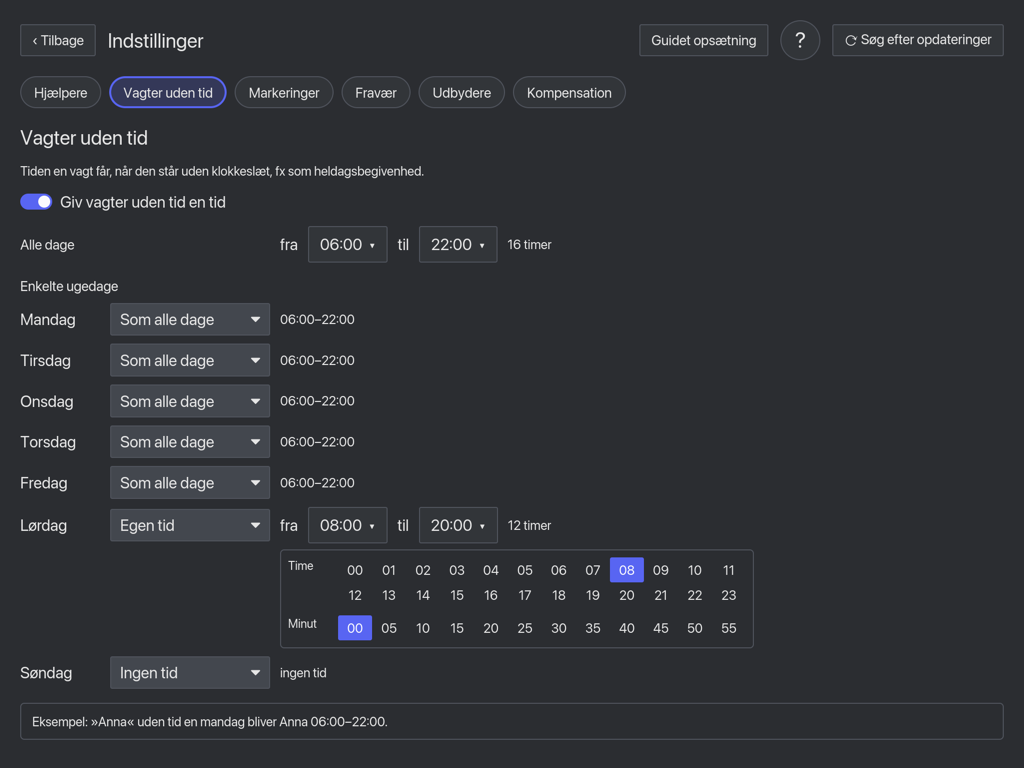
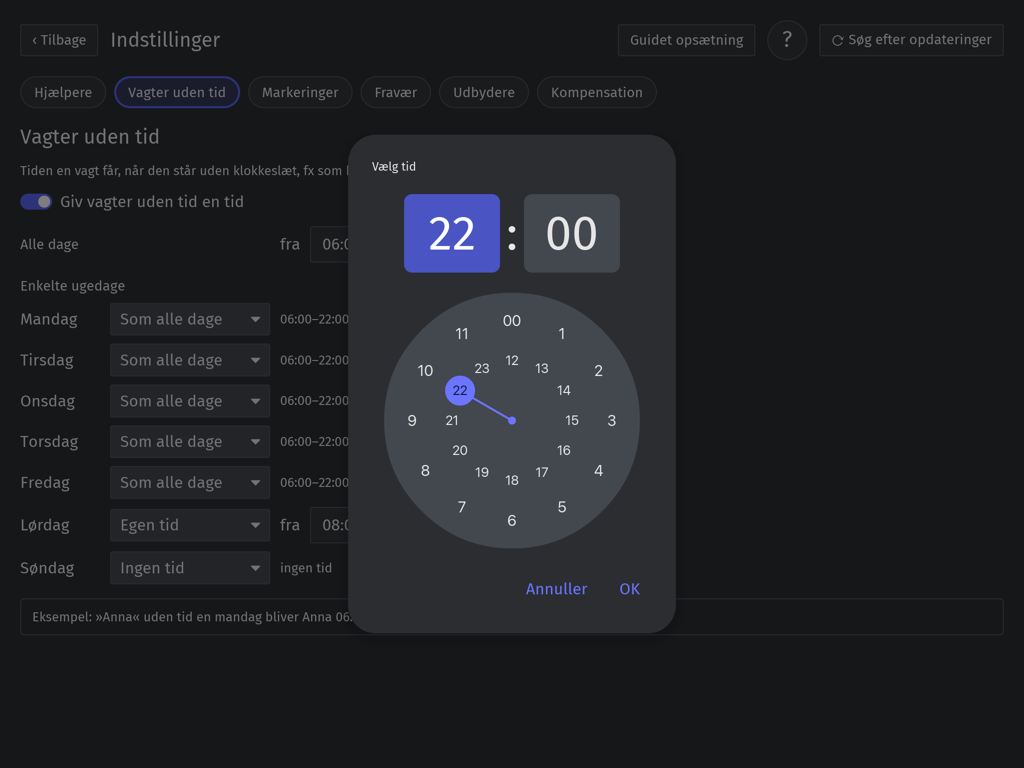
Show the Android-style time picker in the docs
The setup guide describes the dialog, and the picker screenshot shows
its hours and its minutes instead of the old grid. Both screenshots are
offscreen renders of the settings page in iced's default font.

Changed region(s): [[0.0, 0.0312, 0.75, 0.9688], [0.625, 0.0312, 1.0, 0.0938], [0.0, 0.625, 0.0938, 0.75]]

diff --git a/docs/guided-setup.md b/docs/guided-setup.md
@@ -219,8 +219,11 @@ unchanged.
 
 Under **Indstillinger → Vagter uden tid**, switch on **Giv vagter uden tid en
 tid** and pick a start and end for days where a shift has no hours of its own.
-A time button opens its hours and then its minutes, every five; picking the
-minutes closes it. An end at or before the start is the next day, and the row
+A time button opens a dialog like Android's time picker: the time in large
+digits over a round dial with 0 to 11 outside and 12 to 23 inside. Picking an
+hour moves on to the minutes; a click picks them in fives and a drag any
+minute. Digits can be typed, and nothing saves until **OK**. **Annuller**,
+Escape or a click beside the dialog keeps the saved time. An end at or before the start is the next day, and the row
 says how long the shift is, such as `10 timer, slutter næste dag`. Each weekday
 is **Som alle dage**, **Egen tid** with its own pickers, or **Ingen tid**. With
 the switch off, **Vælg en tid for enkelte ugedage** shows the weekdays, so only
